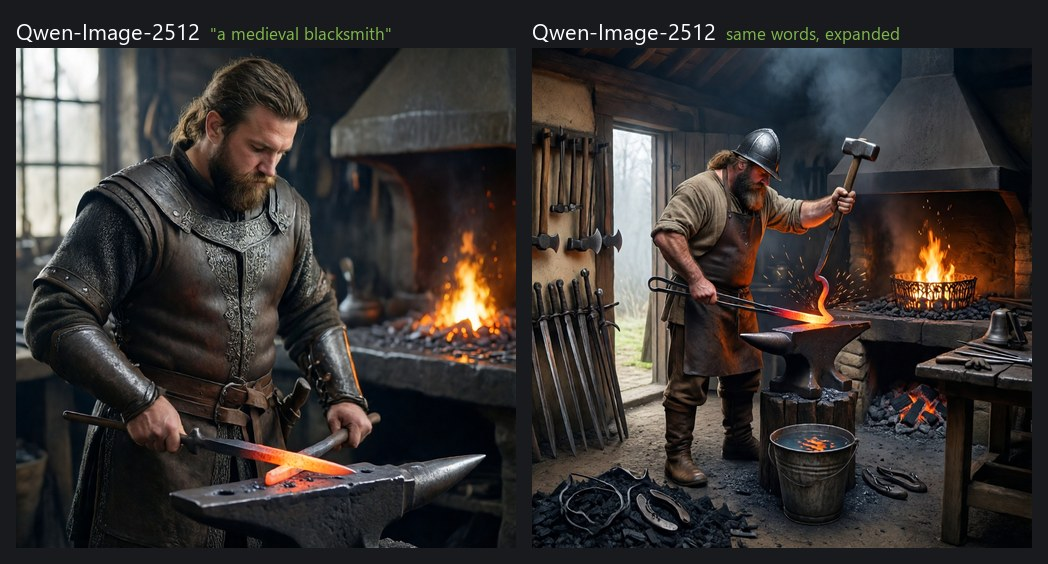
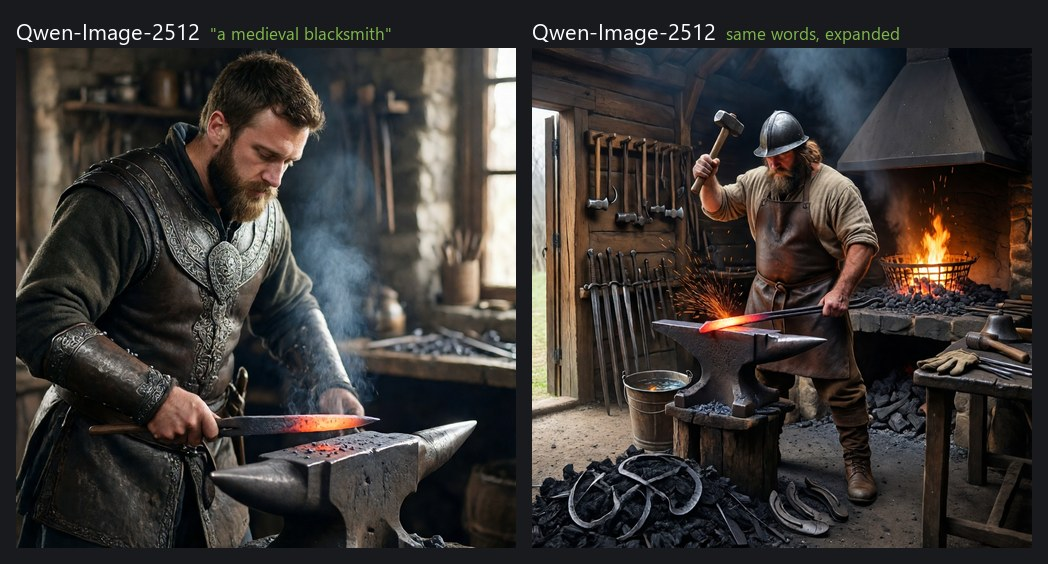
README: YouTube short between the languages, new blacksmith comparison

diff --git a/README.md b/README.md
@@ -11,7 +11,7 @@ Local image, audio, video and 3D generation on your own computer. No cloud, no s
 
 All releases: [github.com/Mantux775/NVAI-open/releases](https://github.com/Mantux775/NVAI-open/releases)
 
-[English](#english) · [Deutsch](#deutsch)
+[English](#english) · [Video](#video) · [Deutsch](#deutsch)
 
 ---
 
@@ -96,11 +96,11 @@ New in the next version. Type a few words, click **✨ Expand prompt**, and NV-A
 
 It uses the prompt upsampler that comes with FLUX 3 Image Klein (Qwen3.5-9B, Apache-2.0), so FLUX 3 has to be downloaded once. On my RTX 5060 Ti it takes about 15 seconds; the very first time after a start, with ComfyUI starting up, about 35.
 
-Same model, same seed, left only the three words, right the expanded text:
+Same model, same seed (31, fourth image of a batch of four), left only the three words, right the expanded text:
 
 ![Qwen-Image-2512 with "a medieval blacksmith" and with the expanded prompt](docs/images/expand-prompt.jpg)
 
-With just the words, Qwen-Image-2512 made a warrior portrait in decorated leather armor. With the expanded text it made a working forge: hearth, anvil, tongs, a glowing bar with sparks, a water bucket and tools on the wall. One catch: whatever your words leave open, the upsampler invents. Here it gave the blacksmith an iron helmet. That is why the text lands in the prompt field first, so you can fix it before anything is generated.
+With just the words, Qwen-Image-2512 made a warrior in decorated leather armor who holds a glowing blade over the anvil, with neither hammer nor tongs. With the expanded text it made a working forge: the smith raises his hammer and holds the glowing bar on the anvil with tongs, around him the hearth, a water bucket and tools on the wall. One catch: whatever your words leave open, the upsampler invents. Here it gave the blacksmith an iron helmet. That is why the text lands in the prompt field first, so you can fix it before anything is generated.
 
 ### 3D: from an image to a model
 
@@ -140,6 +140,18 @@ Models are not part of this repository. Each model has its own license, which NV
 - [docs/MODELS.md](docs/MODELS.md): the image models in detail, prompt tips, test results
 - [docs/CLAUDE_CODE.md](docs/CLAUDE_CODE.md): using NV-AI from Claude Code
 - [photocraft-addon/](photocraft-addon/): source of the PhotoCraft add-on
+
+---
+
+## Video
+
+<p align="center">
+  <a href="https://www.youtube.com/shorts/e9jSTwgwnrI"><img src="docs/images/video-short.jpg" width="320" alt="YouTube Short: NV-AI and the PhotoCraft add-on"></a>
+</p>
+
+<p align="center"><b>NV-AI and the PhotoCraft add-on in action</b>, a short on YouTube.<br>
+<b>NV-AI und das PhotoCraft-Add-on in Aktion</b>, ein kurzes Video auf YouTube.<br>
+<a href="https://www.youtube.com/shorts/e9jSTwgwnrI">youtube.com/shorts/e9jSTwgwnrI</a></p>
 
 ---
 
@@ -224,11 +236,11 @@ Neu in der nächsten Version. Ein paar Worte eintippen, auf **✨ Prompt ausbaue
 
 Dahinter steckt der Prompt-Upsampler, der mit FLUX 3 Image Klein kommt (Qwen3.5-9B, Apache-2.0). FLUX 3 muss also einmal geladen sein. Auf meiner RTX 5060 Ti dauert das Ausbauen rund 15 Sekunden, beim allerersten Mal nach dem Start, wenn ComfyUI noch hochfährt, rund 35.
 
-Gleiches Modell, gleicher Seed, links nur die drei Worte, rechts der ausgebaute Text:
+Gleiches Modell, gleicher Seed (31, viertes Bild einer Viererreihe), links nur die drei Worte, rechts der ausgebaute Text:
 
 ![Qwen-Image-2512 mit „a medieval blacksmith“ und mit ausgebautem Prompt](docs/images/expand-prompt.jpg)
 
-Mit den drei Worten machte Qwen-Image-2512 ein Kriegerporträt in verzierter Lederrüstung. Mit dem ausgebauten Text eine arbeitende Schmiede: Esse, Amboss, Zange, glühendes Eisen mit Funken, Wassereimer und Werkzeug an der Wand. Ein Haken bleibt: Was die eigenen Worte offenlassen, erfindet der Upsampler. Hier setzte er dem Schmied einen Eisenhelm auf. Deshalb landet der Text erst im Prompt-Feld, damit man so etwas vor dem Generieren streichen kann.
+Mit den drei Worten machte Qwen-Image-2512 einen Krieger in verzierter Lederrüstung, der eine glühende Klinge über den Amboss hält, ohne Hammer und ohne Zange. Mit dem ausgebauten Text eine arbeitende Schmiede: Der Schmied hebt den Hammer und hält den glühenden Stab mit der Zange auf dem Amboss, ringsum Esse, Wassereimer und Werkzeug an der Wand. Ein Haken bleibt: Was die eigenen Worte offenlassen, erfindet der Upsampler. Hier setzte er dem Schmied einen Eisenhelm auf. Deshalb landet der Text erst im Prompt-Feld, damit man so etwas vor dem Generieren streichen kann.
 
 ### 3D: vom Bild zum Modell
 
